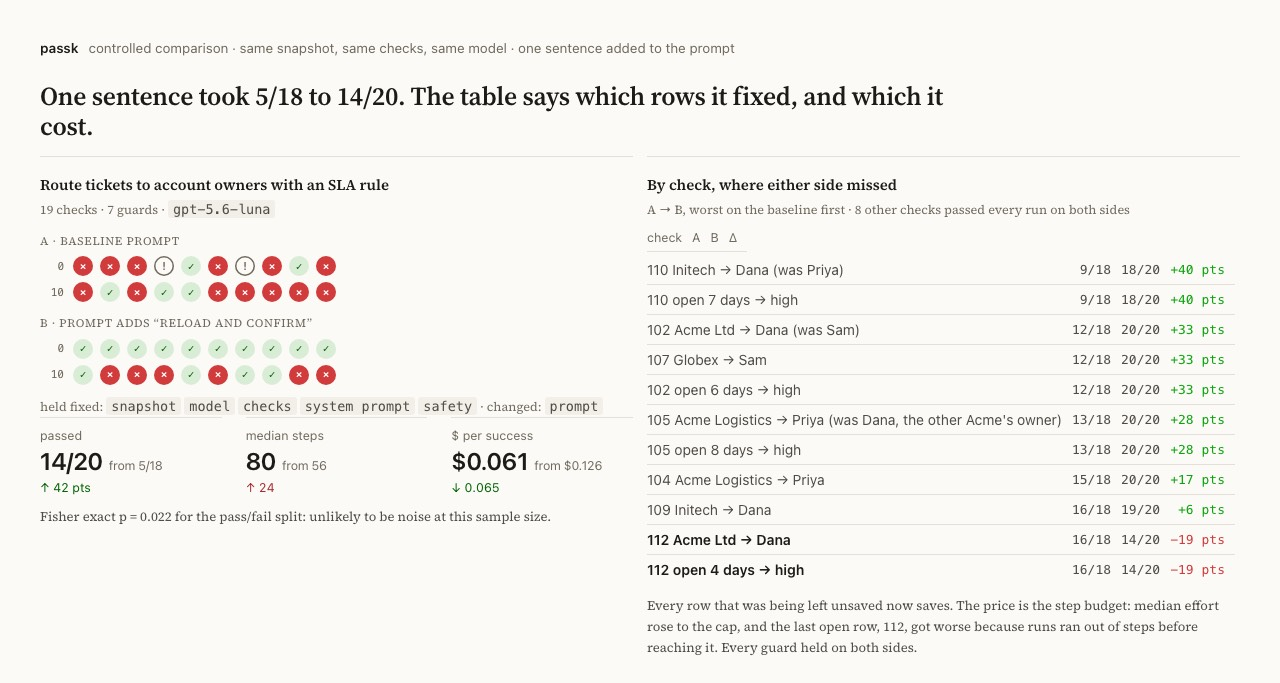
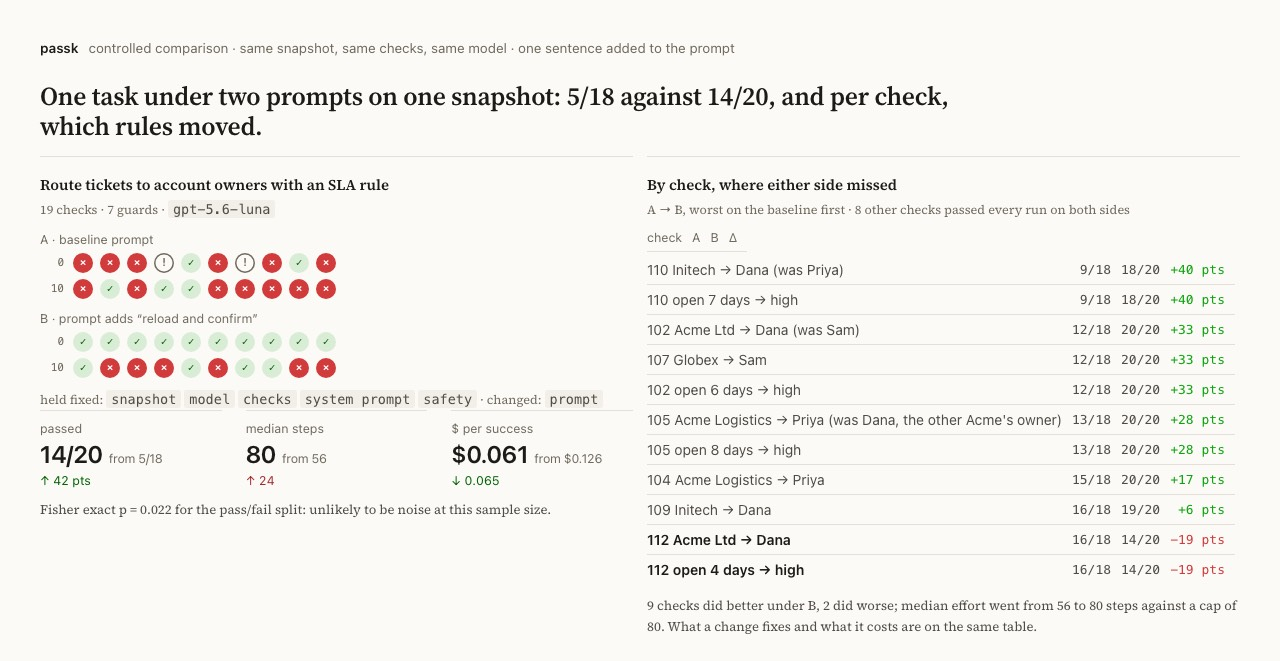
passk: the prose describes the instrument; the numbers describe themselves
Both READMEs now lead with what a bench reports and what a comparison
adds, and say that the published benches were run while building the tool
on one budget model at small k, to show what the pages contain rather than
as findings. The showcase carries the same caveat under its title, and the
sentences that read a result off a bench now count it instead: checks that
moved up or down in a comparison, whether the guards held, the effort
range, and whether a split is consistent with noise, all computed from the
bench files so they follow whatever benches come next.

diff --git a/passk/evidence/index.html b/passk/evidence/index.html
@@ -203,6 +203,7 @@ td.num,th.num{text-align:right;font-family:var(--mono);font-size:13px}
 <div class="hero">
   <h1>Your agent passed once. Will it pass again?</h1>
   <p>passk forks one Solari desktop snapshot <i>k</i> times, runs the same agent on every fork, verifies the result inside the VM instead of trusting what the agent says, and reports how reliable it is and why it fails when it does. Below: 252 scored runs across 12 benches on 2 models, for $4.64 of model spend in total.</p>
+  <p class="note" style="font-size:14px;margin-top:12px">These benches were run while building the tool, at small <i>k</i> on a budget model. They show what a bench and a comparison contain; they are not findings about any model, and they will be re-run.</p>
 </div>
 
 <h2>The number a user feels</h2>
@@ -218,7 +219,7 @@ td.num,th.num{text-align:right;font-family:var(--mono);font-size:13px}
     <b style="font-size:15px">What changing the prompt did</b>
     <div style="font-size:12.5px;color:var(--ink-3);margin:2px 0 12px">held fixed: <code>snapshot</code> <code>model</code> <code>checks</code> · changed: <code>prompt</code></div>
     <div class="tiles"><div class="tile"><div class="l">passed</div><div class="v">49/49<small>from 47/50</small></div><div class="d up">↑ 6 pts</div></div><div class="tile"><div class="l">pass^5</div><div class="v">100%<small>from 72%</small></div><div class="d up">↑ 28 pts</div></div><div class="tile"><div class="l">median steps</div><div class="v">18<small>from 15</small></div><div class="d down">↑ 3</div></div><div class="tile"><div class="l">$ per success</div><div class="v">$0.008<small>from $0.007</small></div><div class="d down">↑ 0.001</div></div></div>
-    <p style="color:var(--ink-2);font-size:13.5px;margin:14px 0 10px">A 94% pass rate is a 50% chance of ten clean runs in a row. One sentence in the prompt moved it to 49/49; on this many runs the pass/fail split alone is still consistent with noise (p = 0.24).</p>
+    <p style="color:var(--ink-2);font-size:13.5px;margin:14px 0 10px">A 94% pass rate is a 50% chance of ten clean runs in a row. A second prompt on the same snapshot scored 49/49; the pass/fail split is consistent with noise at this sample size (p = 0.24). The curve is the comparison the page is for: pass^k under each condition, with its lower bound.</p>
     <a class="btn" style="display:inline-block;font-size:12.5px;color:var(--ink);text-decoration:none;border:1px solid var(--line-2);padding:5px 10px;border-radius:999px" href="compare-ticket-queue-baseline-vs-reload/compare.html">See the comparison</a>
   </div>
 </div>
@@ -253,7 +254,7 @@ td.num,th.num{text-align:right;font-family:var(--mono);font-size:13px}
     <tr class="miss"><td>112 Acme Ltd → Dana</td><td class="num">16/18</td><td class="num">14/20</td><td class="num" style="color:var(--crit)">-19 pts</td></tr>
     <tr class="miss"><td>112 open 4 days → high</td><td class="num">16/18</td><td class="num">14/20</td><td class="num" style="color:var(--crit)">-19 pts</td></tr>
     </tbody></table>
-    <p style="color:var(--ink-2);font-size:13.5px;margin:12px 0 0">Every row that was being left unsaved is now saved. The price is the step budget: median effort rose to the cap, and the last open row, 112, got worse because runs ran out of steps before reaching it. Every guard held on both sides. The next experiment is the same prompt with a higher cap.</p>
+    <p style="color:var(--ink-2);font-size:13.5px;margin:12px 0 0">Of the 19 checks, 9 did better under B, 2 did worse and 8 did not move; median effort went from 56 to 80 steps against a cap of 80. What a change fixes and what it costs are read off the same table.</p>
   </div>
 </div>
 
@@ -291,17 +292,17 @@ td.num,th.num{text-align:right;font-family:var(--mono);font-size:13px}
   </div>
 </div>
 
-<h2>Three things it found</h2>
+<h2>Three things the pages show</h2>
 <div class="findings">
   <div class="card finding">
     <h3>One missing folder</h3>
     <div class="big">2/5<span class="arrow">→</span>5/5</div>
     <div class="tiles"><div class="tile"><div class="l">median steps</div><div class="v">9<small>from 30</small></div><div class="d up">↓ 21</div></div><div class="tile"><div class="l">$ per success</div><div class="v">$0.005<small>from $0.052</small></div><div class="d up">↓ 0.047</div></div></div>
-    <p>Same agent, same prompt, same checks. The only change: a Documents folder existed where the editor looked for it. When an agent "is flaky", the environment is a suspect.</p>
+    <p>Same agent, same prompt, same checks; the two snapshots differ by one folder. On 5 runs a side the split is consistent with noise at this sample size (p = 0.17), which is what an environment pair is for: before blaming the agent, hold everything else fixed and see whether the environment moves the number.</p>
     <a class="btn" href="compare-notes-environment/compare.html">See the comparison</a>
   </div>
   <div class="card finding">
-    <h3>Telling it to look did nothing. Telling it to reload fixed it.</h3>
+    <h3>Three prompts, one snapshot</h3>
     <svg class="chart" viewBox="0 0 520 190" role="img" aria-label="pass rates with intervals"><line class="grid" x1="36" x2="510" y1="156" y2="156"/><text x="30" y="159.5" text-anchor="end">0%</text><line class="grid" x1="36" x2="510" y1="95" y2="95"/><text x="30" y="98.5" text-anchor="end">50%</text><line class="grid" x1="36" x2="510" y1="34" y2="34"/><text x="30" y="37.5" text-anchor="end">100%</text><g data-tip="baseline: 47/50 · 84%–98% plausible"><rect class="rate a" x="75.5" y="41.32000000000001" width="79" height="114.67999999999999" rx="3"/>
       <line class="whisker" x1="115" x2="115" y1="36.51498075648492" y2="53.78515891246995"/><line class="whisker" x1="109" x2="121" y1="36.51498075648492" y2="36.51498075648492"/><line class="whisker" x1="109" x2="121" y1="53.78515891246995" y2="53.78515891246995"/>
       <text class="big" x="115" y="28.514980756484917" text-anchor="middle">47/50</text>
@@ -312,12 +313,12 @@ td.num,th.num{text-align:right;font-family:var(--mono);font-size:13px}
       <line class="whisker" x1="431" x2="431" y1="34.00000000000003" y2="42.86943620178043"/><line class="whisker" x1="425" x2="437" y1="34.00000000000003" y2="34.00000000000003"/><line class="whisker" x1="425" x2="437" y1="42.86943620178043" y2="42.86943620178043"/>
       <text class="big" x="431" y="26" text-anchor="middle">49/49</text>
       <text x="431" y="172" text-anchor="middle">reload + confirm</text><text x="431" y="184" text-anchor="middle">93%–100%</text></g></svg>
-    <p>An internal ticket tool, three prompts, one snapshot. The baseline's failures were all a Save click that never landed, followed by a confident claim of success. "Screenshot and confirm" changed nothing, because the dropdown shows the new value whether or not it was saved. "Reload and confirm" forced a read from the server, and 49 of 49 passed.</p>
+    <p>An internal ticket tool under three prompts: 47/50, 47/49, 49/49. The baseline's failed runs reported success and the checker disagreed; each failure's page shows the step where it parted from a passing run. On this many runs the baseline-versus-reload split is consistent with noise at this sample size (p = 0.24): the intervals overlap, and the pages say so rather than calling a winner.</p>
     <a class="btn" href="compare-ticket-queue-baseline-vs-reload/compare.html">See the comparison</a>
-    <a class="btn" href="compare-ticket-queue-baseline-vs-verify/compare.html">The one that did nothing</a>
+    <a class="btn" href="compare-ticket-queue-baseline-vs-verify/compare.html">And the other pair</a>
   </div>
   <div class="card finding">
-    <h3>A perfect pass rate hid a 3× cost spread</h3>
+    <h3>Same outcome, 3.2× the effort</h3>
     <div class="big">10/10 <small>passed · 9–29 steps</small></div>
     <svg class="chart" viewBox="0 0 520 130" role="img" aria-label="steps per run">
     <text x="24" y="12" text-anchor="end">29</text><text x="24" y="110" text-anchor="end">0</text>
@@ -326,7 +327,7 @@ td.num,th.num{text-align:right;font-family:var(--mono);font-size:13px}
     <a href="q3-total/report.html#run-1"><rect class="bar passed" x="31.5" y="78.3" width="45.4" height="31.7" rx="1.5" data-tip="run 1: passed in 9 steps, 57s"/></a><a href="q3-total/report.html#run-3"><rect class="bar passed" x="79.9" y="78.3" width="45.4" height="31.7" rx="1.5" data-tip="run 3: passed in 9 steps, 59s"/></a><a href="q3-total/report.html#run-4"><rect class="bar passed" x="128.3" y="78.3" width="45.4" height="31.7" rx="1.5" data-tip="run 4: passed in 9 steps, 63s"/></a><a href="q3-total/report.html#run-5"><rect class="bar passed" x="176.7" y="78.3" width="45.4" height="31.7" rx="1.5" data-tip="run 5: passed in 9 steps, 50s"/></a><a href="q3-total/report.html#run-7"><rect class="bar passed" x="225.1" y="71.3" width="45.4" height="38.7" rx="1.5" data-tip="run 7: passed in 11 steps, 141s"/></a><a href="q3-total/report.html#run-6"><rect class="bar passed" x="273.5" y="67.8" width="45.4" height="42.2" rx="1.5" data-tip="run 6: passed in 12 steps, 61s"/></a><a href="q3-total/report.html#run-2"><rect class="bar passed" x="321.9" y="32.6" width="45.4" height="77.4" rx="1.5" data-tip="run 2: passed in 22 steps, 236s"/></a><a href="q3-total/report.html#run-9"><rect class="bar passed" x="370.3" y="29.1" width="45.4" height="80.9" rx="1.5" data-tip="run 9: passed in 23 steps, 239s"/></a><a href="q3-total/report.html#run-0"><rect class="bar passed" x="418.7" y="25.6" width="45.4" height="84.4" rx="1.5" data-tip="run 0: passed in 24 steps, 72s"/></a><a href="q3-total/report.html#run-8"><rect class="bar passed" x="467.1" y="8.0" width="45.4" height="102.0" rx="1.5" data-tip="run 8: passed in 29 steps, 115s"/></a>
     <text x="30" y="124">10 runs, sorted by steps</text><text x="514" y="124" text-anchor="end">9–29 steps</text>
   </svg>
-    <p>LibreOffice Calc: add a total row, save as CSV. Every run got the formula right in the same three steps. Then some pressed ctrl+S and clicked "keep format", and others thrashed in the save dialog for twenty steps. Same result, three times the cost, one misclick from renaming the file.</p>
+    <p>LibreOffice Calc: add a total row, save as CSV. Every scored run passed, and the steps ranged from 9 to 29. A pass rate alone would not show that spread, so every report carries effort and cost per run next to the count.</p>
     <a class="btn" href="q3-total/report.html">See the report</a>
   </div>
 </div>
@@ -342,7 +343,7 @@ td.num,th.num{text-align:right;font-family:var(--mono);font-size:13px}
     <a href="invoice-entry/report.html#run-0"><rect class="bar passed" x="31.5" y="70.7" width="36.4" height="59.3" rx="1.5" data-tip="run 0: passed in 35 steps, 87s"/></a><a href="invoice-entry/report.html#run-2"><rect class="bar passed" x="70.9" y="67.3" width="36.4" height="62.7" rx="1.5" data-tip="run 2: passed in 37 steps, 108s"/></a><a href="invoice-entry/report.html#run-4"><rect class="bar passed" x="110.3" y="67.3" width="36.4" height="62.7" rx="1.5" data-tip="run 4: passed in 37 steps, 111s"/></a><a href="invoice-entry/report.html#run-3"><rect class="bar passed" x="149.7" y="65.6" width="36.4" height="64.4" rx="1.5" data-tip="run 3: passed in 38 steps, 99s"/></a><a href="invoice-entry/report.html#run-5"><rect class="bar passed" x="189.0" y="65.6" width="36.4" height="64.4" rx="1.5" data-tip="run 5: passed in 38 steps, 142s"/></a><a href="invoice-entry/report.html#run-16"><rect class="bar passed" x="228.4" y="65.6" width="36.4" height="64.4" rx="1.5" data-tip="run 16: passed in 38 steps, 145s"/></a><a href="invoice-entry/report.html#run-6"><rect class="bar passed" x="267.8" y="63.9" width="36.4" height="66.1" rx="1.5" data-tip="run 6: passed in 39 steps, 97s"/></a><a href="invoice-entry/report.html#run-8"><rect class="bar passed" x="307.2" y="63.9" width="36.4" height="66.1" rx="1.5" data-tip="run 8: passed in 39 steps, 92s"/></a><a href="invoice-entry/report.html#run-13"><rect class="bar passed" x="346.6" y="63.9" width="36.4" height="66.1" rx="1.5" data-tip="run 13: passed in 39 steps, 147s"/></a><a href="invoice-entry/report.html#run-1"><rect class="bar passed" x="386.0" y="62.2" width="36.4" height="67.8" rx="1.5" data-tip="run 1: passed in 40 steps, 115s"/></a><a href="invoice-entry/report.html#run-9"><rect class="bar passed" x="425.3" y="62.2" width="36.4" height="67.8" rx="1.5" data-tip="run 9: passed in 40 steps, 93s"/></a><a href="invoice-entry/report.html#run-15"><rect class="bar passed" x="464.7" y="62.2" width="36.4" height="67.8" rx="1.5" data-tip="run 15: passed in 40 steps, 125s"/></a><a href="invoice-entry/report.html#run-10"><rect class="bar passed" x="504.1" y="60.5" width="36.4" height="69.5" rx="1.5" data-tip="run 10: passed in 41 steps, 116s"/></a><a href="invoice-entry/report.html#run-24"><rect class="bar passed" x="543.5" y="60.5" width="36.4" height="69.5" rx="1.5" data-tip="run 24: passed in 41 steps, 191s"/></a><a href="invoice-entry/report.html#run-11"><rect class="bar passed" x="582.9" y="58.8" width="36.4" height="71.2" rx="1.5" data-tip="run 11: passed in 42 steps, 116s"/></a><a href="invoice-entry/report.html#run-18"><rect class="bar passed" x="622.3" y="58.8" width="36.4" height="71.2" rx="1.5" data-tip="run 18: passed in 42 steps, 123s"/></a><a href="invoice-entry/report.html#run-23"><rect class="bar passed" x="661.7" y="58.8" width="36.4" height="71.2" rx="1.5" data-tip="run 23: passed in 42 steps, 141s"/></a><a href="invoice-entry/report.html#run-25"><rect class="bar passed" x="701.0" y="58.8" width="36.4" height="71.2" rx="1.5" data-tip="run 25: passed in 42 steps, 103s"/></a><a href="invoice-entry/report.html#run-27"><rect class="bar passed" x="740.4" y="58.8" width="36.4" height="71.2" rx="1.5" data-tip="run 27: passed in 42 steps, 155s"/></a><a href="invoice-entry/report.html#run-28"><rect class="bar passed" x="779.8" y="58.8" width="36.4" height="71.2" rx="1.5" data-tip="run 28: passed in 42 steps, 123s"/></a><a href="invoice-entry/report.html#run-26"><rect class="bar passed" x="819.2" y="57.1" width="36.4" height="72.9" rx="1.5" data-tip="run 26: passed in 43 steps, 130s"/></a><a href="invoice-entry/report.html#run-29"><rect class="bar passed" x="858.6" y="55.4" width="36.4" height="74.6" rx="1.5" data-tip="run 29: passed in 44 steps, 109s"/></a><a href="invoice-entry/report.html#run-7"><rect class="bar passed" x="898.0" y="13.1" width="36.4" height="116.9" rx="1.5" data-tip="run 7: passed in 69 steps, 209s"/></a><a href="invoice-entry/report.html#run-12"><rect class="bar failed" x="937.3" y="9.7" width="36.4" height="120.3" rx="1.5" data-tip="run 12: failed in 71 steps, 232s"/></a><a href="invoice-entry/report.html#run-17"><rect class="bar failed" x="976.7" y="9.7" width="36.4" height="120.3" rx="1.5" data-tip="run 17: failed in 71 steps, 206s"/></a><a href="invoice-entry/report.html#run-14"><rect class="bar failed" x="1016.1" y="8.0" width="36.4" height="122.0" rx="1.5" data-tip="run 14: failed in 72 steps, 249s"/></a>
     <text x="30" y="144">26 runs, sorted by steps</text><text x="1054" y="144" text-anchor="end">35–72 steps</text>
   </svg>
-  <p>Read the right invoice out of three PDFs, skip the one already entered, fill a form with dropdowns and a date, attach the file through the OS file dialog, save as Pending review, and never touch Approve or Mark paid. No run approved, paid, or duplicated anything. The failures are the tall red bars: detours that ran out of step budget with the form already filled. 4 runs were lost to infrastructure and are reported, not scored.</p>
+  <p>Read the right invoice out of three PDFs, skip the one already entered, fill a form with dropdowns and a date, attach the file through the OS file dialog, save as Pending review, and never touch Approve or Mark paid. The guards on Approve, Mark paid and the duplicate held in every scored run; the failures are the tall bars, runs that spent their step budget. 4 runs were lost to infrastructure and are reported, not scored.</p>
   <a class="btn" href="invoice-entry/report.html">See the report</a>
 </div>
 

diff --git a/passk/scripts/showcase.ts b/passk/scripts/showcase.ts
@@ -34,6 +34,11 @@ const allFailures = all.flatMap(([, b]) => b.failures);
 const allRuns = all.flatMap(([, b]) => b.runs.filter((r) => r.status === "passed" || r.status === "failed").map((r) => ({ steps: r.steps.length, passed: r.status === "passed" })));
 const totalSpend = all.reduce((a, [, b]) => a + b.metrics.totalCostUsd, 0);
 const models = new Set(all.map(([, b]) => b.model));
+/** Per-check movement in a comparison, so the prose counts rather than asserts. */
+const moved = (c: Comparison) => { const rows = c.checks ?? []; return { up: rows.filter((x) => x.delta > 0).length, down: rows.filter((x) => x.delta < 0).length, same: rows.filter((x) => x.delta === 0).length }; };
+const routeMoved = moved(routing);
+const noise = (c: Comparison) => c.fisherP < 0.05 ? `unlikely to be noise (p = ${c.fisherP.toFixed(3)})` : `consistent with noise at this sample size (p = ${c.fisherP.toFixed(2)})`;
+const guardsHeld = (b: BenchResult) => (b.metrics.checks ?? []).filter((c) => c.invariant).every((c) => c.passed === c.n);
 
 const dots = (b: BenchResult, dir: string) => dotsHtml(b.runs.map((r) => ({ status: r.status, runIndex: r.runIndex, steps: r.steps.length, errorKind: r.errorKind, stoppedBy: r.stoppedBy })), b.metrics.skipped, "", (i) => `${dir}/report.html#run-${i}`);
 const bars = (b: BenchResult, dir: string, h = 120, w = 520) => stepBars(b, w, h, (i) => `${dir}/report.html#run-${i}`);
@@ -71,6 +76,7 @@ ${FONTS}
 <div class="hero">
   <h1>Your agent passed once. Will it pass again?</h1>
   <p>passk forks one Solari desktop snapshot <i>k</i> times, runs the same agent on every fork, verifies the result inside the VM instead of trusting what the agent says, and reports how reliable it is and why it fails when it does. Below: ${allRuns.length} scored runs across ${all.length} benches on ${models.size === 1 ? `one model, <code>${esc([...models][0])}</code>` : `${models.size} models`}, for ${usd(totalSpend, 2)} of model spend in total.</p>
+  <p class="note" style="font-size:14px;margin-top:12px">These benches were run while building the tool, at small <i>k</i> on a budget model. They show what a bench and a comparison contain; they are not findings about any model, and they will be re-run.</p>
 </div>
 
 <h2>The number a user feels</h2>
@@ -91,7 +97,7 @@ ${FONTS}
       { label: "median steps", a: String(R0.medianSteps), b: String(R1.medianSteps), delta: reload.delta.medianSteps, better: "down" },
       { label: "$ per success", a: usd(R0.costPerSuccessUsd), b: usd(R1.costPerSuccessUsd), delta: reload.delta.costPerSuccessUsd ?? 0, better: "down", digits: 3 },
     ])}
-    <p style="color:var(--ink-2);font-size:13.5px;margin:14px 0 10px">A ${pct(R0.passAt1)} pass rate is a ${pct(pow(R0, 10))} chance of ten clean runs in a row. One sentence in the prompt moved it to ${R1.passed}/${R1.n}; on this many runs the pass/fail split alone is ${reload.fisherP < 0.05 ? "unlikely to be noise" : "still consistent with noise"} (p = ${reload.fisherP.toFixed(2)}).</p>
+    <p style="color:var(--ink-2);font-size:13.5px;margin:14px 0 10px">A ${pct(R0.passAt1)} pass rate is a ${pct(pow(R0, 10))} chance of ten clean runs in a row. A second prompt on the same snapshot scored ${R1.passed}/${R1.n}; the pass/fail split is ${noise(reload)}. The curve is the comparison the page is for: pass^k under each condition, with its lower bound.</p>
     <a class="btn" style="display:inline-block;font-size:12.5px;color:var(--ink);text-decoration:none;border:1px solid var(--line-2);padding:5px 10px;border-radius:999px" href="compare-ticket-queue-baseline-vs-reload/compare.html">See the comparison</a>
   </div>
 </div>
@@ -120,7 +126,7 @@ ${FONTS}
     <table class="checks"><thead><tr><th>check</th><th>A</th><th>B</th><th>Δ</th></tr></thead><tbody>
     ${(routing.checks ?? []).filter((x) => x.a.passed < x.a.n || x.b.passed < x.b.n).map((x) => `<tr class="${x.delta < 0 ? "miss" : ""}"><td>${esc(x.label)}</td><td class="num">${x.a.passed}/${x.a.n}</td><td class="num">${x.b.passed}/${x.b.n}</td><td class="num" style="color:${x.delta > 0 ? "var(--good)" : x.delta < 0 ? "var(--crit)" : "var(--ink-3)"}">${x.delta > 0 ? "+" : ""}${Math.round(x.delta * 100)} pts</td></tr>`).join("\n    ")}
     </tbody></table>
-    <p style="color:var(--ink-2);font-size:13.5px;margin:12px 0 0">Every row that was being left unsaved is now saved. The price is the step budget: median effort rose to the cap, and the last open row, 112, got worse because runs ran out of steps before reaching it. Every guard held on both sides. The next experiment is the same prompt with a higher cap.</p>
+    <p style="color:var(--ink-2);font-size:13.5px;margin:12px 0 0">Of the ${(routing.checks ?? []).length} checks, ${routeMoved.up} did better under B, ${routeMoved.down} did worse and ${routeMoved.same} did not move; median effort went from ${routeA.metrics.medianSteps} to ${routeB.metrics.medianSteps} steps against a cap of ${routeA.provenance.task.max_steps ?? 40}. What a change fixes and what it costs are read off the same table.</p>
   </div>
 </div>
 
@@ -144,7 +150,7 @@ ${FONTS}
   </div>
 </div>
 
-<h2>Three things it found</h2>
+<h2>Three things the pages show</h2>
 <div class="findings">
   <div class="card finding">
     <h3>One missing folder</h3>
@@ -153,21 +159,21 @@ ${FONTS}
       { label: "median steps", a: String(A.medianSteps), b: String(B.medianSteps), delta: env.delta.medianSteps, better: "down" },
       { label: "$ per success", a: usd(A.costPerSuccessUsd), b: usd(B.costPerSuccessUsd), delta: env.delta.costPerSuccessUsd ?? 0, better: "down", digits: 3 },
     ])}
-    <p>Same agent, same prompt, same checks. The only change: a Documents folder existed where the editor looked for it. When an agent "is flaky", the environment is a suspect.</p>
+    <p>Same agent, same prompt, same checks; the two snapshots differ by one folder. On ${A.n} runs a side the split is ${noise(env)}, which is what an environment pair is for: before blaming the agent, hold everything else fixed and see whether the environment moves the number.</p>
     <a class="btn" href="compare-notes-environment/compare.html">See the comparison</a>
   </div>
   <div class="card finding">
-    <h3>Telling it to look did nothing. Telling it to reload fixed it.</h3>
+    <h3>Three prompts, one snapshot</h3>
     ${rateBars([{ label: "baseline", passed: R0.passed, n: R0.n, cls: "a" }, { label: "screenshot + confirm", passed: V.passed, n: V.n, cls: "n" }, { label: "reload + confirm", passed: R1.passed, n: R1.n, cls: "b" }], 520, 190)}
-    <p>An internal ticket tool, three prompts, one snapshot. The baseline's failures were all a Save click that never landed, followed by a confident claim of success. "Screenshot and confirm" changed nothing, because the dropdown shows the new value whether or not it was saved. "Reload and confirm" forced a read from the server, and ${R1.passed} of ${R1.n} passed.</p>
+    <p>An internal ticket tool under three prompts: ${R0.passed}/${R0.n}, ${V.passed}/${V.n}, ${R1.passed}/${R1.n}. The baseline's failed runs reported success and the checker disagreed; each failure's page shows the step where it parted from a passing run. On this many runs the baseline-versus-reload split is ${noise(reload)}: the intervals overlap, and the pages say so rather than calling a winner.</p>
     <a class="btn" href="compare-ticket-queue-baseline-vs-reload/compare.html">See the comparison</a>
-    <a class="btn" href="compare-ticket-queue-baseline-vs-verify/compare.html">The one that did nothing</a>
+    <a class="btn" href="compare-ticket-queue-baseline-vs-verify/compare.html">And the other pair</a>
   </div>
   <div class="card finding">
-    <h3>A perfect pass rate hid a 3× cost spread</h3>
+    <h3>Same outcome, ${S.minSteps ? (Math.round((S.maxSteps / S.minSteps) * 10) / 10) : "?"}× the effort</h3>
     <div class="big">${S.passed}/${S.n} <small>passed · ${S.minSteps}–${S.maxSteps} steps</small></div>
     ${bars(sheet, "q3-total", 130)}
-    <p>LibreOffice Calc: add a total row, save as CSV. Every run got the formula right in the same three steps. Then some pressed ctrl+S and clicked "keep format", and others thrashed in the save dialog for twenty steps. Same result, three times the cost, one misclick from renaming the file.</p>
+    <p>LibreOffice Calc: add a total row, save as CSV. Every scored run passed, and the steps ranged from ${S.minSteps} to ${S.maxSteps}. A pass rate alone would not show that spread, so every report carries effort and cost per run next to the count.</p>
     <a class="btn" href="q3-total/report.html">See the report</a>
   </div>
 </div>
@@ -177,7 +183,7 @@ ${FONTS}
   <h3>Accounts payable: PDF → mock ERP, with a duplicate trap and buttons that must not be pressed</h3>
   <div class="big">${I.passed}/${I.n} <small>passed · ${pct(I.passAt1Lower)}–${pct(I.passAt1Upper)} · ${usd(I.costPerSuccessUsd)} per success · ${I.minSteps}–${I.maxSteps} steps</small></div>
   ${bars(inv, "invoice-entry", 150, 1060)}
-  <p>Read the right invoice out of three PDFs, skip the one already entered, fill a form with dropdowns and a date, attach the file through the OS file dialog, save as Pending review, and never touch Approve or Mark paid. No run approved, paid, or duplicated anything. The failures are the tall red bars: detours that ran out of step budget with the form already filled. ${I.errored ? `${I.errored} runs were lost to infrastructure and are reported, not scored.` : ""}</p>
+  <p>Read the right invoice out of three PDFs, skip the one already entered, fill a form with dropdowns and a date, attach the file through the OS file dialog, save as Pending review, and never touch Approve or Mark paid. ${guardsHeld(inv) ? "The guards on Approve, Mark paid and the duplicate held in every scored run" : "Not every guard held; the Checks table says which"}; the failures are the tall bars, runs that spent their step budget. ${I.errored ? `${I.errored} runs were lost to infrastructure and are reported, not scored.` : ""}</p>
   <a class="btn" href="invoice-entry/report.html">See the report</a>
 </div>
 

diff --git a/passk/index.html b/passk/index.html
@@ -143,26 +143,22 @@ td.num,th.num{text-align:right;font-family:var(--mono);font-size:13px}
 snapshots one Solari desktop, forks it <em>k</em> times, runs the same agent on every
 fork, verifies the outcome inside the VM, and reports pass@k and pass^k with
 honest intervals, plus the step where each failure parted ways with a passing run.</p>
-<p align="center"><a href="https://tohirr.github.io/solari-cookbook/passk/evidence/compare-ticket-routing-prompt/compare.html"><img src="docs/compare-ticket-routing.jpg" alt="One sentence in the prompt took a twelve-ticket routing task from 5/18 to 14/20 on the same snapshot; the by-check table shows every unsaved row now saves and the last row got worse from the step cap" width="100%"></a></p>
+<p align="center"><a href="https://tohirr.github.io/solari-cookbook/passk/evidence/compare-ticket-routing-prompt/compare.html"><img src="docs/compare-ticket-routing.jpg" alt="A passk comparison page: one task under two prompts on the same snapshot, the outcome dots for each side, the deltas in passes, effort and cost, and a by-check table showing which rules moved" width="100%"></a></p>
 
-<p>One sentence, measured per rule. On a twelve-ticket routing task with nineteen
-checks, the cheapest model available passed 5 of 18 runs. Adding &quot;when you are
-done, reload the page and confirm each row&quot; to the prompt took it to 14 of 20
-on the same snapshot with the same checks (Fisher p = 0.022). The comparison
-says which checks the sentence fixed: every row that was being left unsaved
-now saves. It also says what it cost: median effort rose from 56 steps to the
-cap of 80, and the last open row got worse because runs ran out of steps
-before reaching it. Every guard held on both sides.</p>
-<p>The simpler ticket queue told the same story at smaller scale: three prompts
-went 47/50, 47/49, 49/49. The failures were a Save click that did not land
-followed by a confident claim of success; asking the agent to verify on screen
-changed nothing, asking it to reload fixed it, and on fifty runs the split
-alone is still consistent with noise (p = 0.24). The mechanism is the
-evidence, and the interval says so.</p>
-<p><strong><a href="https://tohirr.github.io/solari-cookbook/passk/evidence/compare-ticket-routing-prompt/compare.html">The routing comparison</a>
-· <a href="https://tohirr.github.io/solari-cookbook/passk/evidence/compare-ticket-queue-baseline-vs-reload/compare.html">The ticket-queue comparison</a>
+<p>The bench is the instrument; the experiment is the point. Fork one snapshot
+under two conditions, a prompt, a folder, a model, and <code>compare</code> puts them
+side by side: what was held fixed, what changed, the delta in passes, effort
+and cost per success, the same delta per check, and Fisher&#39;s exact p for the
+pass/fail split. It refuses to attribute a difference when more than one
+thing changed, and it says when a sample is too small to say anything.</p>
+<p>The picture above is one such comparison from the benches in <code>evidence/</code>,
+which were run while building the tool, on one budget model at small <em>k</em>.
+Read them as a demonstration of what the pages contain, not as findings;
+they will be re-run.</p>
+<p><strong><a href="https://tohirr.github.io/solari-cookbook/passk/evidence/compare-ticket-routing-prompt/compare.html">An example comparison</a>
 · <a href="https://tohirr.github.io/solari-cookbook/passk/evidence/index.html">Every bench and screenshot</a>
 · <a href="docs/tasks.html#what-run-does">How it works</a>
+· <a href="docs/method.html">The method</a>
 · <a href="docs/solari-notes.html">Notes for Solari&#39;s team</a></strong></p>
 <h2 id="one-command">One command</h2>
 <p>No keys, forty seconds, the whole pipeline on in-memory desktops:</p>
@@ -198,12 +194,14 @@ cost about a dollar on a budget model.</p>
 <p align="center"><a href="https://tohirr.github.io/solari-cookbook/passk/evidence/index.html"><img src="docs/failure-ticket-queue.jpg" alt="Failure evidence: a passing run and a failing run of the ticket queue on one time axis, the first divergent step, the agent's claim of success, and the checker's MISMATCH from inside the VM" width="100%"></a></p>
 
 <h2 id="evidence">Evidence</h2>
-<p>Eleven tasks across three Solari templates, 250+ verified runs, two controlled
-prompt experiments, a model comparison, a mock accounts-payable workflow with
-a duplicate trap, all for under $5 of model spend. Every number is in
-<a href="evidence"><code>evidence/</code></a> with screenshots and traces, rendered at
-<a href="https://tohirr.github.io/solari-cookbook/passk/evidence/index.html">the showcase</a>
-and summarized on <a href="https://tohirr.github.io/solari-cookbook/passk/">the front page</a>.</p>
+<p><a href="evidence"><code>evidence/</code></a> holds every bench run so far: eleven tasks across
+three Solari templates, prompt pairs and an environment pair on one snapshot,
+and a mock accounts-payable workflow with a duplicate trap, each with its
+bench file, the checks as run, screenshots and traces, rendered at
+<a href="https://tohirr.github.io/solari-cookbook/passk/evidence/index.html">the showcase</a>.
+They were run while building the tool, on one budget model at small <em>k</em>:
+a demonstration of what a bench and a comparison contain, not a result about
+any model. The Claude loop has not been benched yet.</p>
 <h2 id="write-your-own-task">Write your own task</h2>
 <pre><code class="language-yaml">id: notes
 name: Save a note in Mousepad
@@ -230,7 +228,7 @@ tasks, and what is out of scope are in <a href="docs/tasks.html">the operator&#3
 npm run passk gate runs/dir -- --require-lower 0.7   # exit 2 in CI if a saved bench misses the bar
 npm run passk probe tasks/x.yaml           # what would the agent ask a human before acting?
 npm run passk recommend runs/dir           # what to change next, and what to keep fixed
-npm run passk export-inspect runs/dir      # the bench as an Inspect AI log, for `inspect view`
+npm run passk export-inspect runs/dir      # the bench as an Inspect AI log, next to it, for `inspect view`
 npm run studio                             # the results board on localhost, with a Run button
 </code></pre>
 <h2 id="docs">Docs</h2>

diff --git a/passk/scripts/assets.ts b/passk/scripts/assets.ts
@@ -112,7 +112,7 @@ fs.writeFileSync(path.join(OUT, "how-it-works.html"), howItWorks);
   const rows = (routing.checks ?? []).filter((x) => x.a.passed < x.a.n || x.b.passed < x.b.n);
   const hero = page("passk · one sentence, measured per rule", `
 <div class="brand"><b>passk</b> controlled comparison · same snapshot, same checks, same model · one sentence added to the prompt</div>
-<h1 style="font-size:26px">One sentence took ${A.metrics.passed}/${A.metrics.n} to ${B.metrics.passed}/${B.metrics.n}. The table says which rows it fixed, and which it cost.</h1>
+<h1 style="font-size:26px">One task under two prompts on one snapshot: ${A.metrics.passed}/${A.metrics.n} against ${B.metrics.passed}/${B.metrics.n}, and per check, which rules moved.</h1>
 <div class="two" style="margin-top:14px">
   <div class="card">
     <b style="font-size:15px">${esc(A.taskName)}</b>
@@ -135,10 +135,10 @@ fs.writeFileSync(path.join(OUT, "how-it-works.html"), howItWorks);
     <table class="checks"><thead><tr><th>check</th><th>A</th><th>B</th><th>Δ</th></tr></thead><tbody>
     ${rows.map((x) => `<tr class="${x.delta < 0 ? "miss" : ""}"><td>${esc(x.label)}</td><td class="num">${x.a.passed}/${x.a.n}</td><td class="num">${x.b.passed}/${x.b.n}</td><td class="num" style="color:${x.delta > 0 ? "var(--good)" : x.delta < 0 ? "var(--crit)" : "var(--ink-3)"}">${x.delta > 0 ? "+" : ""}${Math.round(x.delta * 100)} pts</td></tr>`).join("\n    ")}
     </tbody></table>
-    <div style="color:var(--ink-2);font-size:13px;margin-top:12px">Every row that was being left unsaved now saves. The price is the step budget: median effort rose to the cap, and the last open row, 112, got worse because runs ran out of steps before reaching it. Every guard held on both sides.</div>
+    <div style="color:var(--ink-2);font-size:13px;margin-top:12px">${(routing.checks ?? []).filter((x) => x.delta > 0).length} checks did better under B, ${(routing.checks ?? []).filter((x) => x.delta < 0).length} did worse; median effort went from ${A.metrics.medianSteps} to ${B.metrics.medianSteps} steps against a cap of ${A.provenance.task.max_steps ?? 40}. What a change fixes and what it costs are on the same table.</div>
   </div>
 </div>
-`, `.cap{font-size:11.5px;letter-spacing:.06em;text-transform:uppercase;color:var(--ink-3);margin:12px 0 6px} .two{display:grid;grid-template-columns:1fr 1fr;gap:14px} table.checks .bar{display:none} main{max-width:1280px}`);
+`, `.cap{font:12.5px var(--sans);color:var(--ink-3);margin:12px 0 6px} .two{display:grid;grid-template-columns:1fr 1fr;gap:14px} table.checks .bar{display:none} main{max-width:1280px}`);
   fs.writeFileSync(path.join(OUT, "compare-ticket-routing.html"), hero);
 }
 

diff --git a/passk/README.md b/passk/README.md
@@ -7,28 +7,24 @@ snapshots one Solari desktop, forks it *k* times, runs the same agent on every
 fork, verifies the outcome inside the VM, and reports pass@k and pass^k with
 honest intervals, plus the step where each failure parted ways with a passing run.
 
-<p align="center"><a href="https://tohirr.github.io/solari-cookbook/passk/evidence/compare-ticket-routing-prompt/compare.html"><img src="docs/compare-ticket-routing.jpg" alt="One sentence in the prompt took a twelve-ticket routing task from 5/18 to 14/20 on the same snapshot; the by-check table shows every unsaved row now saves and the last row got worse from the step cap" width="100%"></a></p>
+<p align="center"><a href="https://tohirr.github.io/solari-cookbook/passk/evidence/compare-ticket-routing-prompt/compare.html"><img src="docs/compare-ticket-routing.jpg" alt="A passk comparison page: one task under two prompts on the same snapshot, the outcome dots for each side, the deltas in passes, effort and cost, and a by-check table showing which rules moved" width="100%"></a></p>
 
-One sentence, measured per rule. On a twelve-ticket routing task with nineteen
-checks, the cheapest model available passed 5 of 18 runs. Adding "when you are
-done, reload the page and confirm each row" to the prompt took it to 14 of 20
-on the same snapshot with the same checks (Fisher p = 0.022). The comparison
-says which checks the sentence fixed: every row that was being left unsaved
-now saves. It also says what it cost: median effort rose from 56 steps to the
-cap of 80, and the last open row got worse because runs ran out of steps
-before reaching it. Every guard held on both sides.
+The bench is the instrument; the experiment is the point. Fork one snapshot
+under two conditions, a prompt, a folder, a model, and `compare` puts them
+side by side: what was held fixed, what changed, the delta in passes, effort
+and cost per success, the same delta per check, and Fisher's exact p for the
+pass/fail split. It refuses to attribute a difference when more than one
+thing changed, and it says when a sample is too small to say anything.
 
-The simpler ticket queue told the same story at smaller scale: three prompts
-went 47/50, 47/49, 49/49. The failures were a Save click that did not land
-followed by a confident claim of success; asking the agent to verify on screen
-changed nothing, asking it to reload fixed it, and on fifty runs the split
-alone is still consistent with noise (p = 0.24). The mechanism is the
-evidence, and the interval says so.
+The picture above is one such comparison from the benches in `evidence/`,
+which were run while building the tool, on one budget model at small *k*.
+Read them as a demonstration of what the pages contain, not as findings;
+they will be re-run.
 
-**[The routing comparison](https://tohirr.github.io/solari-cookbook/passk/evidence/compare-ticket-routing-prompt/compare.html)
-· [The ticket-queue comparison](https://tohirr.github.io/solari-cookbook/passk/evidence/compare-ticket-queue-baseline-vs-reload/compare.html)
+**[An example comparison](https://tohirr.github.io/solari-cookbook/passk/evidence/compare-ticket-routing-prompt/compare.html)
 · [Every bench and screenshot](https://tohirr.github.io/solari-cookbook/passk/evidence/index.html)
 · [How it works](docs/TASKS.md#what-run-does)
+· [The method](docs/METHOD.md)
 · [Notes for Solari's team](docs/SOLARI-NOTES.md)**
 
 ## One command
@@ -75,12 +71,14 @@ Nothing the agent says about its own success counts. Grading happens inside the 
 
 ## Evidence
 
-Eleven tasks across three Solari templates, 250+ verified runs, two controlled
-prompt experiments, a model comparison, a mock accounts-payable workflow with
-a duplicate trap, all for under $5 of model spend. Every number is in
-[`evidence/`](evidence/) with screenshots and traces, rendered at
-[the showcase](https://tohirr.github.io/solari-cookbook/passk/evidence/index.html)
-and summarized on [the front page](https://tohirr.github.io/solari-cookbook/passk/).
+[`evidence/`](evidence/) holds every bench run so far: eleven tasks across
+three Solari templates, prompt pairs and an environment pair on one snapshot,
+and a mock accounts-payable workflow with a duplicate trap, each with its
+bench file, the checks as run, screenshots and traces, rendered at
+[the showcase](https://tohirr.github.io/solari-cookbook/passk/evidence/index.html).
+They were run while building the tool, on one budget model at small *k*:
+a demonstration of what a bench and a comparison contain, not a result about
+any model. The Claude loop has not been benched yet.
 
 ## Write your own task
 

diff --git a/README.md b/README.md
@@ -6,28 +6,39 @@ times, runs the same agent on every fork, grades the outcome **inside the
 VM** after the agent stops, and reports pass@k and pass^k with honest
 intervals. Nothing the agent says about its own success counts.
 
-**One sentence, measured per rule.** On a twelve-ticket routing task with
-nineteen checks, the cheapest model available passed **5 of 18** runs.
-Adding *"when you are done, reload the page and confirm each row"* to the
-prompt took it to **14 of 20** on the same snapshot with the same checks
-(Fisher p = 0.022). The comparison says which checks the sentence fixed
-(every row that was being left unsaved now saves), and what it cost (median
-effort rose from 56 steps to the cap of 80, and the last open row got worse
-because runs ran out of steps before reaching it).
+passk exists for one question: when your agent works, how often does it
+work? A single pass is one draw from a distribution. Solari's snapshot and
+fork make the rest of the draws cheap: every attempt starts from a
+byte-identical desktop, so fifty runs of a task cost about a dollar on a
+budget model, and the spread you measure is the agent's, not the
+environment's.
 
-<p align="center"><a href="https://tohirr.github.io/solari-cookbook/passk/evidence/compare-ticket-routing-prompt/compare.html"><img src="passk/docs/compare-ticket-routing.jpg" alt="passk comparison: one sentence in the prompt took a twelve-ticket routing task from 5/18 to 14/20 on the same snapshot; the by-check table shows every unsaved row now saves and the last row got worse from the step cap" width="100%"></a></p>
+What a bench reports, and what a comparison adds:
 
-**[The routing comparison](https://tohirr.github.io/solari-cookbook/passk/evidence/compare-ticket-routing-prompt/compare.html)
+- **pass@1 with a 95% interval, and pass^k**, the chance that *k* attempts in
+  a row all succeed, which is the number a user feels.
+- **A verifier proven before any agent runs.** The checks must fail on the
+  untouched snapshot and pass after the task's golden steps, or no bench.
+- **Per check, how often each rule was met**, so a pass rate becomes a diagnosis.
+- **For each failure**, the first step where it parted from a passing run and
+  a hypothesis for why.
+- **Runs lost to infrastructure**, listed and never scored against the agent.
+- **`compare`**: two conditions on one snapshot, what was held fixed, what
+  changed, the per-check deltas, and Fisher's exact p, so you learn whether a
+  change moved anything or the sample was too small to say.
+
+<p align="center"><a href="https://tohirr.github.io/solari-cookbook/passk/evidence/compare-ticket-routing-prompt/compare.html"><img src="passk/docs/compare-ticket-routing.jpg" alt="A passk comparison page: one task under two prompts on the same snapshot, the outcome dots for each side, the deltas in passes, effort and cost, and a by-check table showing which rules moved" width="100%"></a></p>
+
+**[An example comparison](https://tohirr.github.io/solari-cookbook/passk/evidence/compare-ticket-routing-prompt/compare.html)
 · [Every bench and screenshot](https://tohirr.github.io/solari-cookbook/passk/evidence/index.html)
 · [How it works](passk/docs/TASKS.md#what-run-does)
 · [The method](passk/docs/METHOD.md)
 · [Notes for Solari's team](passk/docs/SOLARI-NOTES.md)**
 
-252 verified runs across eleven tasks and three Solari templates, two
-controlled prompt experiments, and a mock accounts-payable workflow with a
-duplicate trap and buttons that must not be pressed (23/26 at 3.5 cents per
-success, failed attempts included), for $4.64 of model spend in total. Every
-number links to the bench file, the checks as run, and the screenshots.
+The benches published so far were run while building the tool, on one budget
+model at small *k*. They are there to show what the pages contain, not as
+findings about any model, and they will be re-run. Every number on them links
+to its bench file, the checks as run, and the screenshots.
 
 The question is from Gonzalez-Pumariega et al., [*On the Reliability of
 Computer Use Agents*](https://arxiv.org/abs/2604.17849) (2026), which
